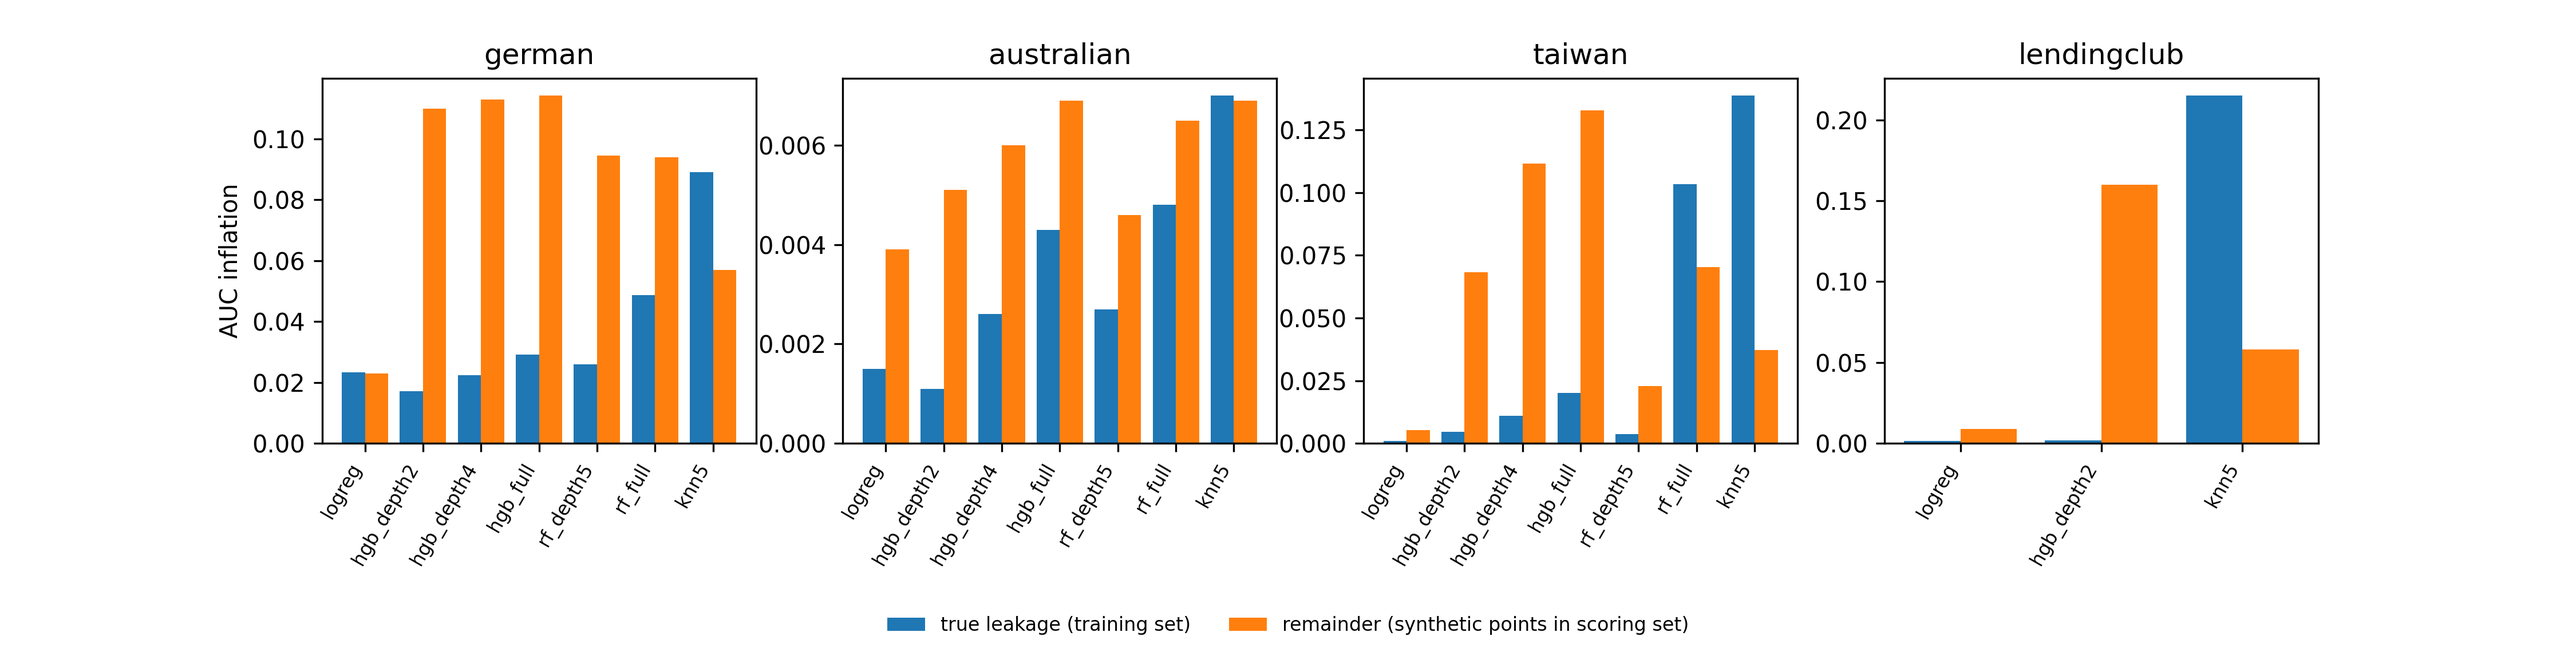
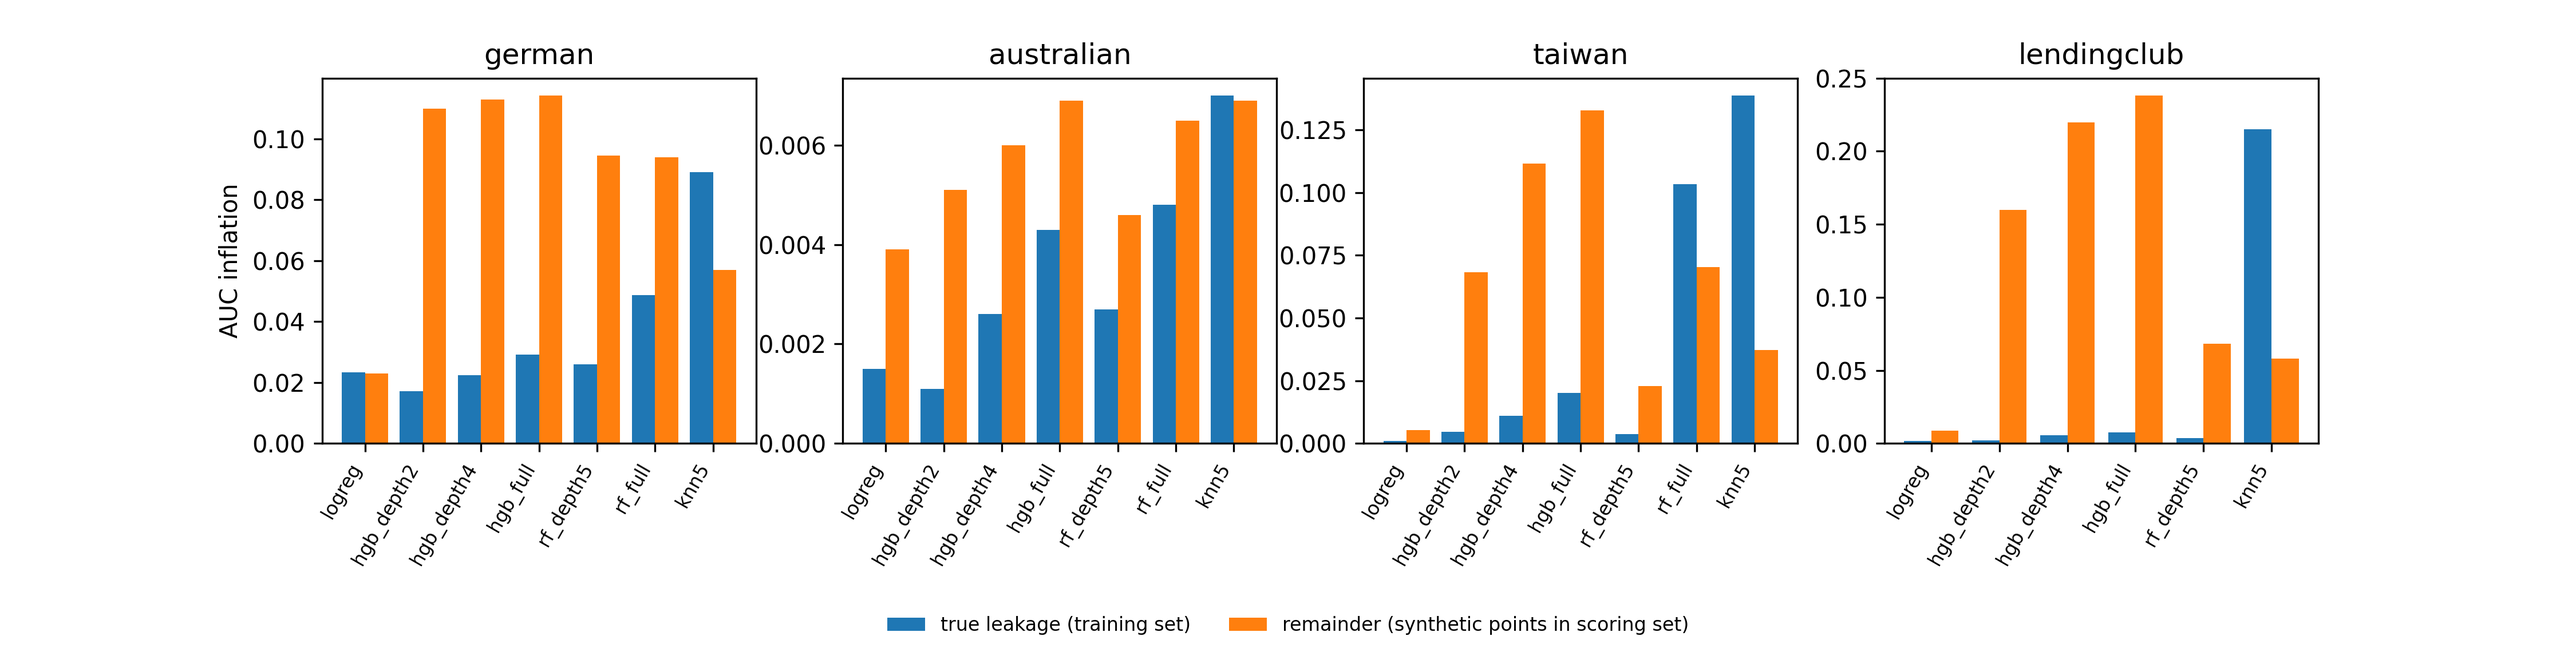
Fix make_tables: keep samematch-only models, skip non-model files in coverage

diff --git a/code/make_tables.py b/code/make_tables.py
@@ -96,12 +96,13 @@ old = dg.groupby(["dataset", "balancer", "model"]).agg(
     n_old=("seed", "nunique"), total=("total", "mean"), real_old=("real", "mean"))
 # Matched version: leaky pipeline gets only as many synthetic points as the correct one
 # (exp_samefold.py --match-syn). This removes the effect of the larger synthetic count.
+# OUTER join: a model that exists only in samematch_* (e.g. knn25, rf_leaf5) must not be dropped.
 if glob.glob(str(RES / "samematch_*.csv")):
     sm = read_all("samematch_*.csv")
     t2b = t2b.join(sm.groupby(["dataset", "balancer", "model"]).agg(
         n_match=("seed", "nunique"), real_match=("real_same", "mean"),
-        real_match_se=("real_same", se)))
-t2b = t2b.join(old)
+        real_match_se=("real_same", se)), how="outer")
+t2b = t2b.join(old, how="left")
 base = "real_match" if "real_match" in t2b.columns else "real_same"
 t2b["rest"] = t2b["total"] - t2b[base]
 t2b["share_real"] = t2b[base] / t2b["total"]   # uses real_match when available
@@ -142,6 +143,8 @@ for f in sorted(glob.glob(str(RES / "*.csv"))):
     if name in ("tong_hop_chinh.csv", "bang_phan_ra.csv"):
         continue
     dd = pd.read_csv(f)
+    if "model" not in dd.columns or "seed" not in dd.columns:
+        continue          # not a per-model result file (e.g. lendingclub_boot.csv)
     keys = [c for c in ("model", "variant", "frac", "kfrac") if c in dd.columns]
     for k, gg in dd.groupby(keys):
         k = k if isinstance(k, tuple) else (k,)
